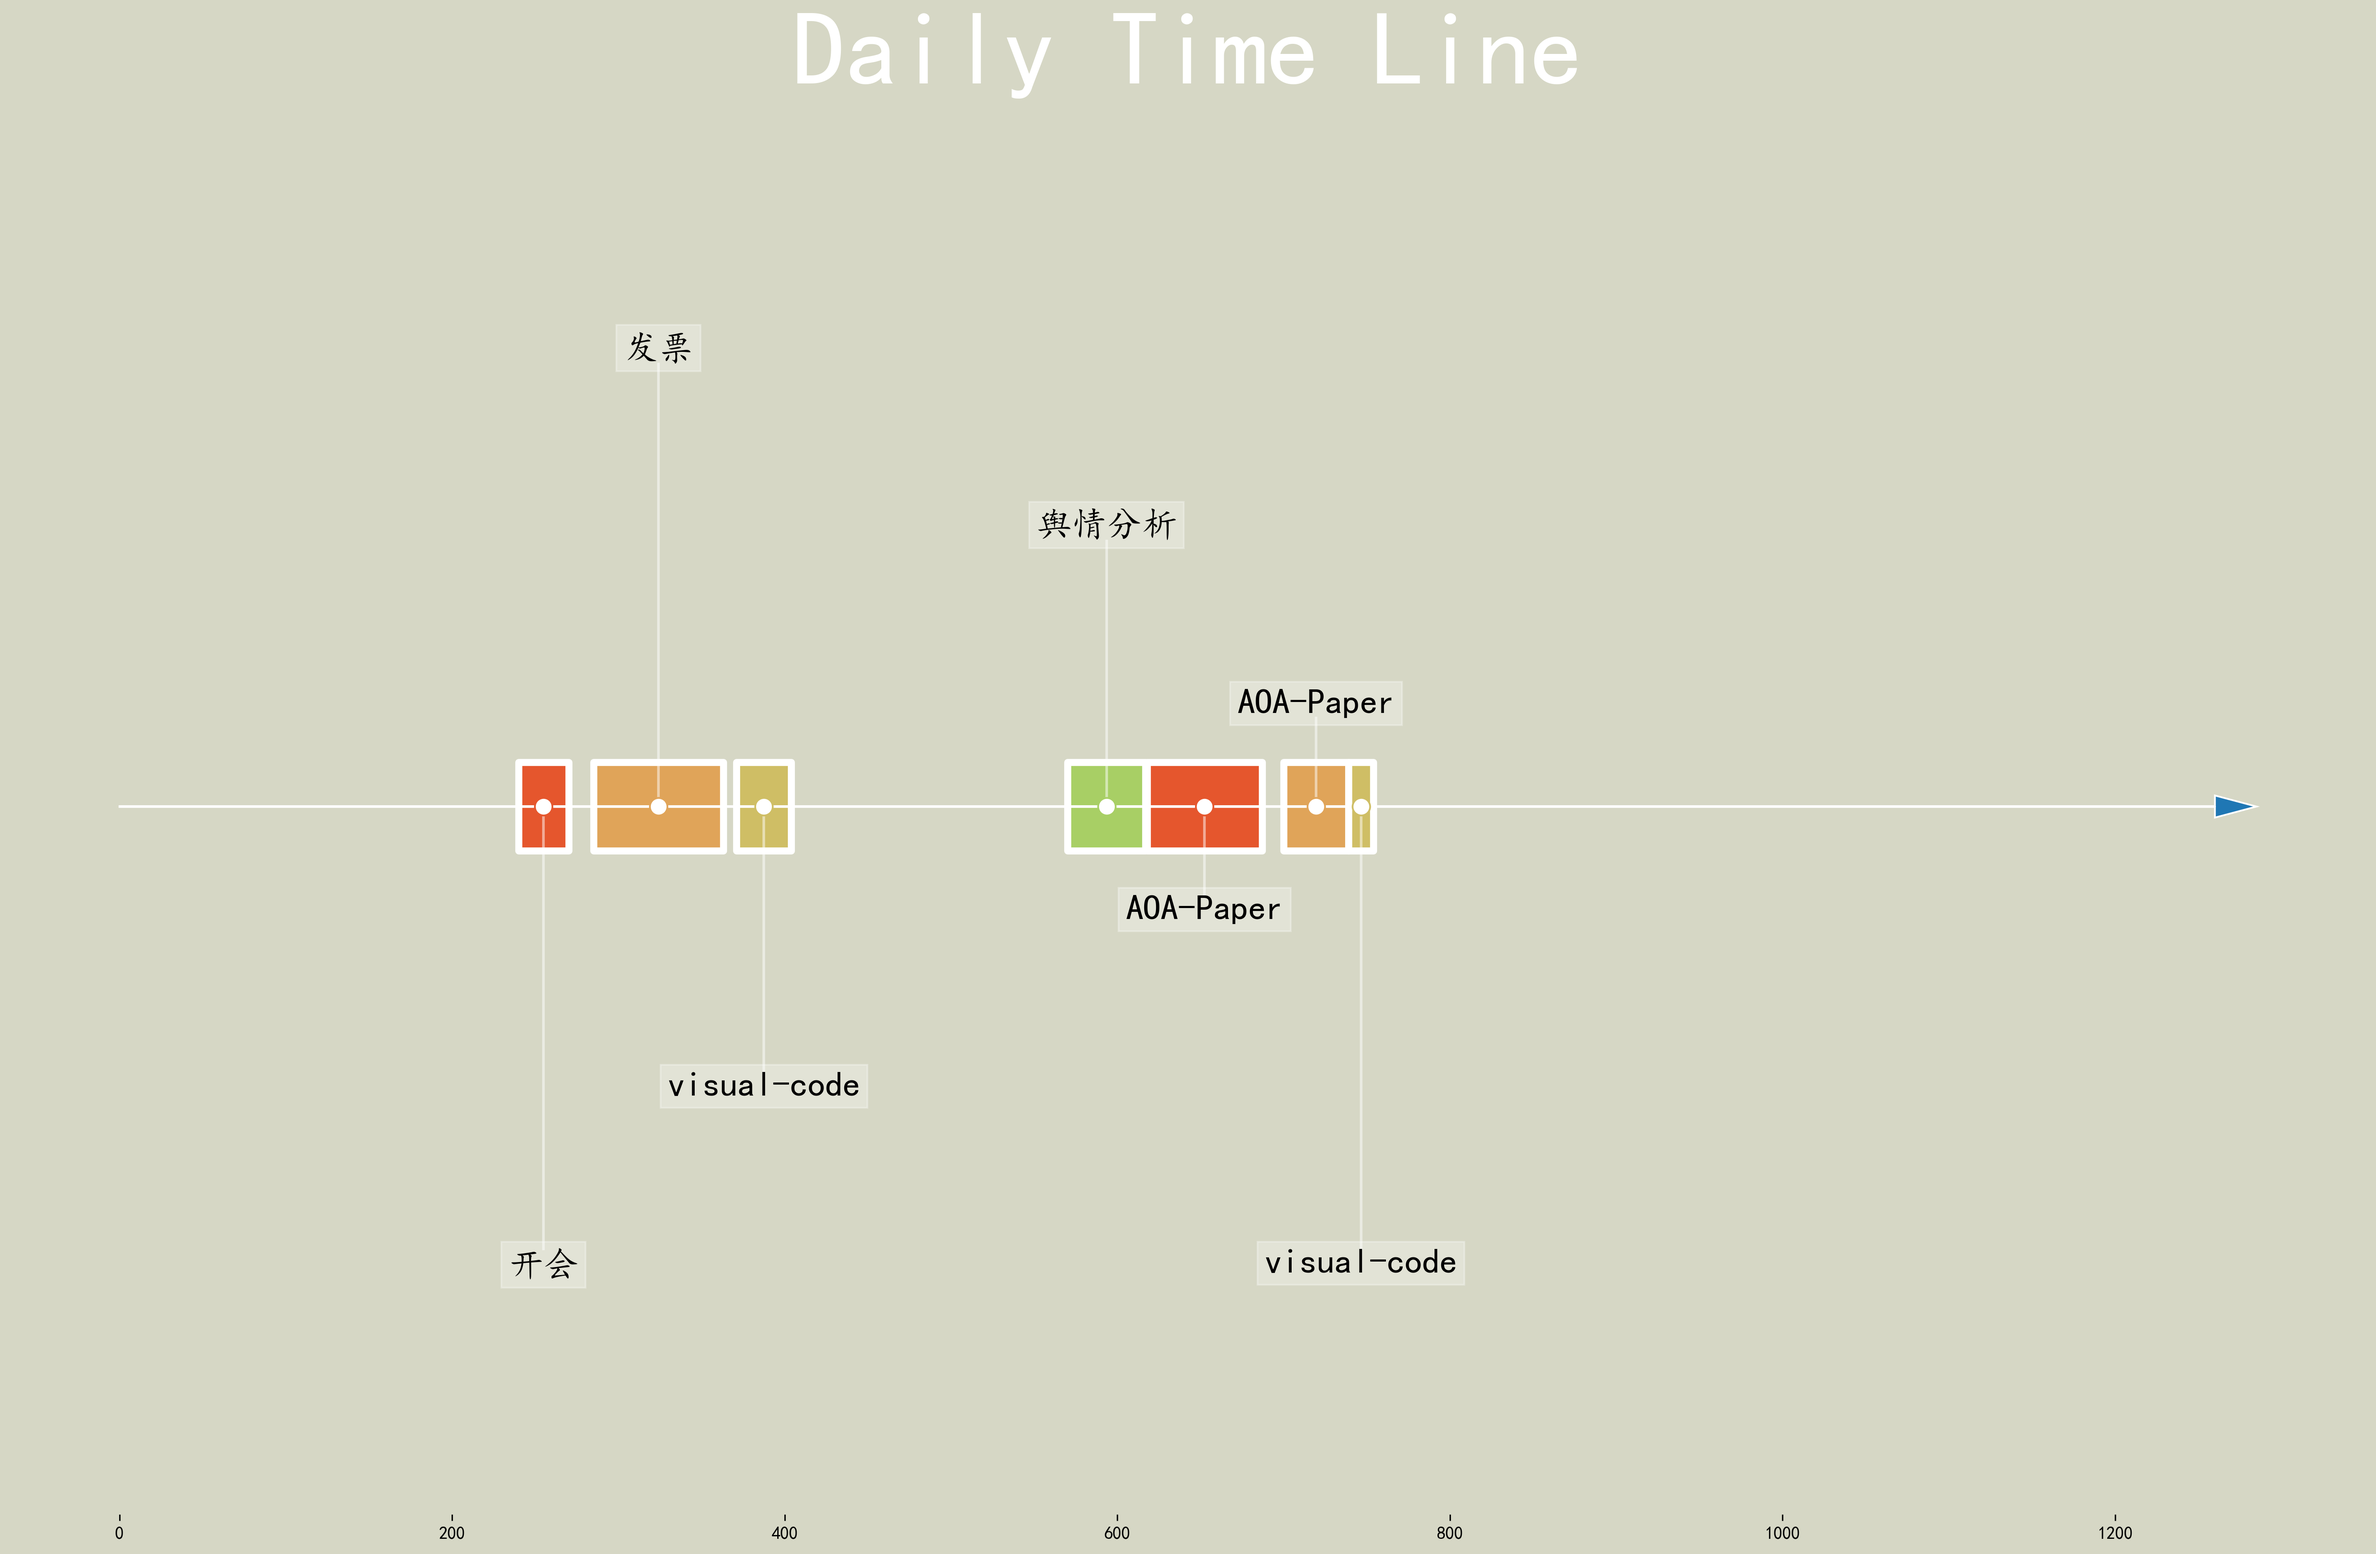
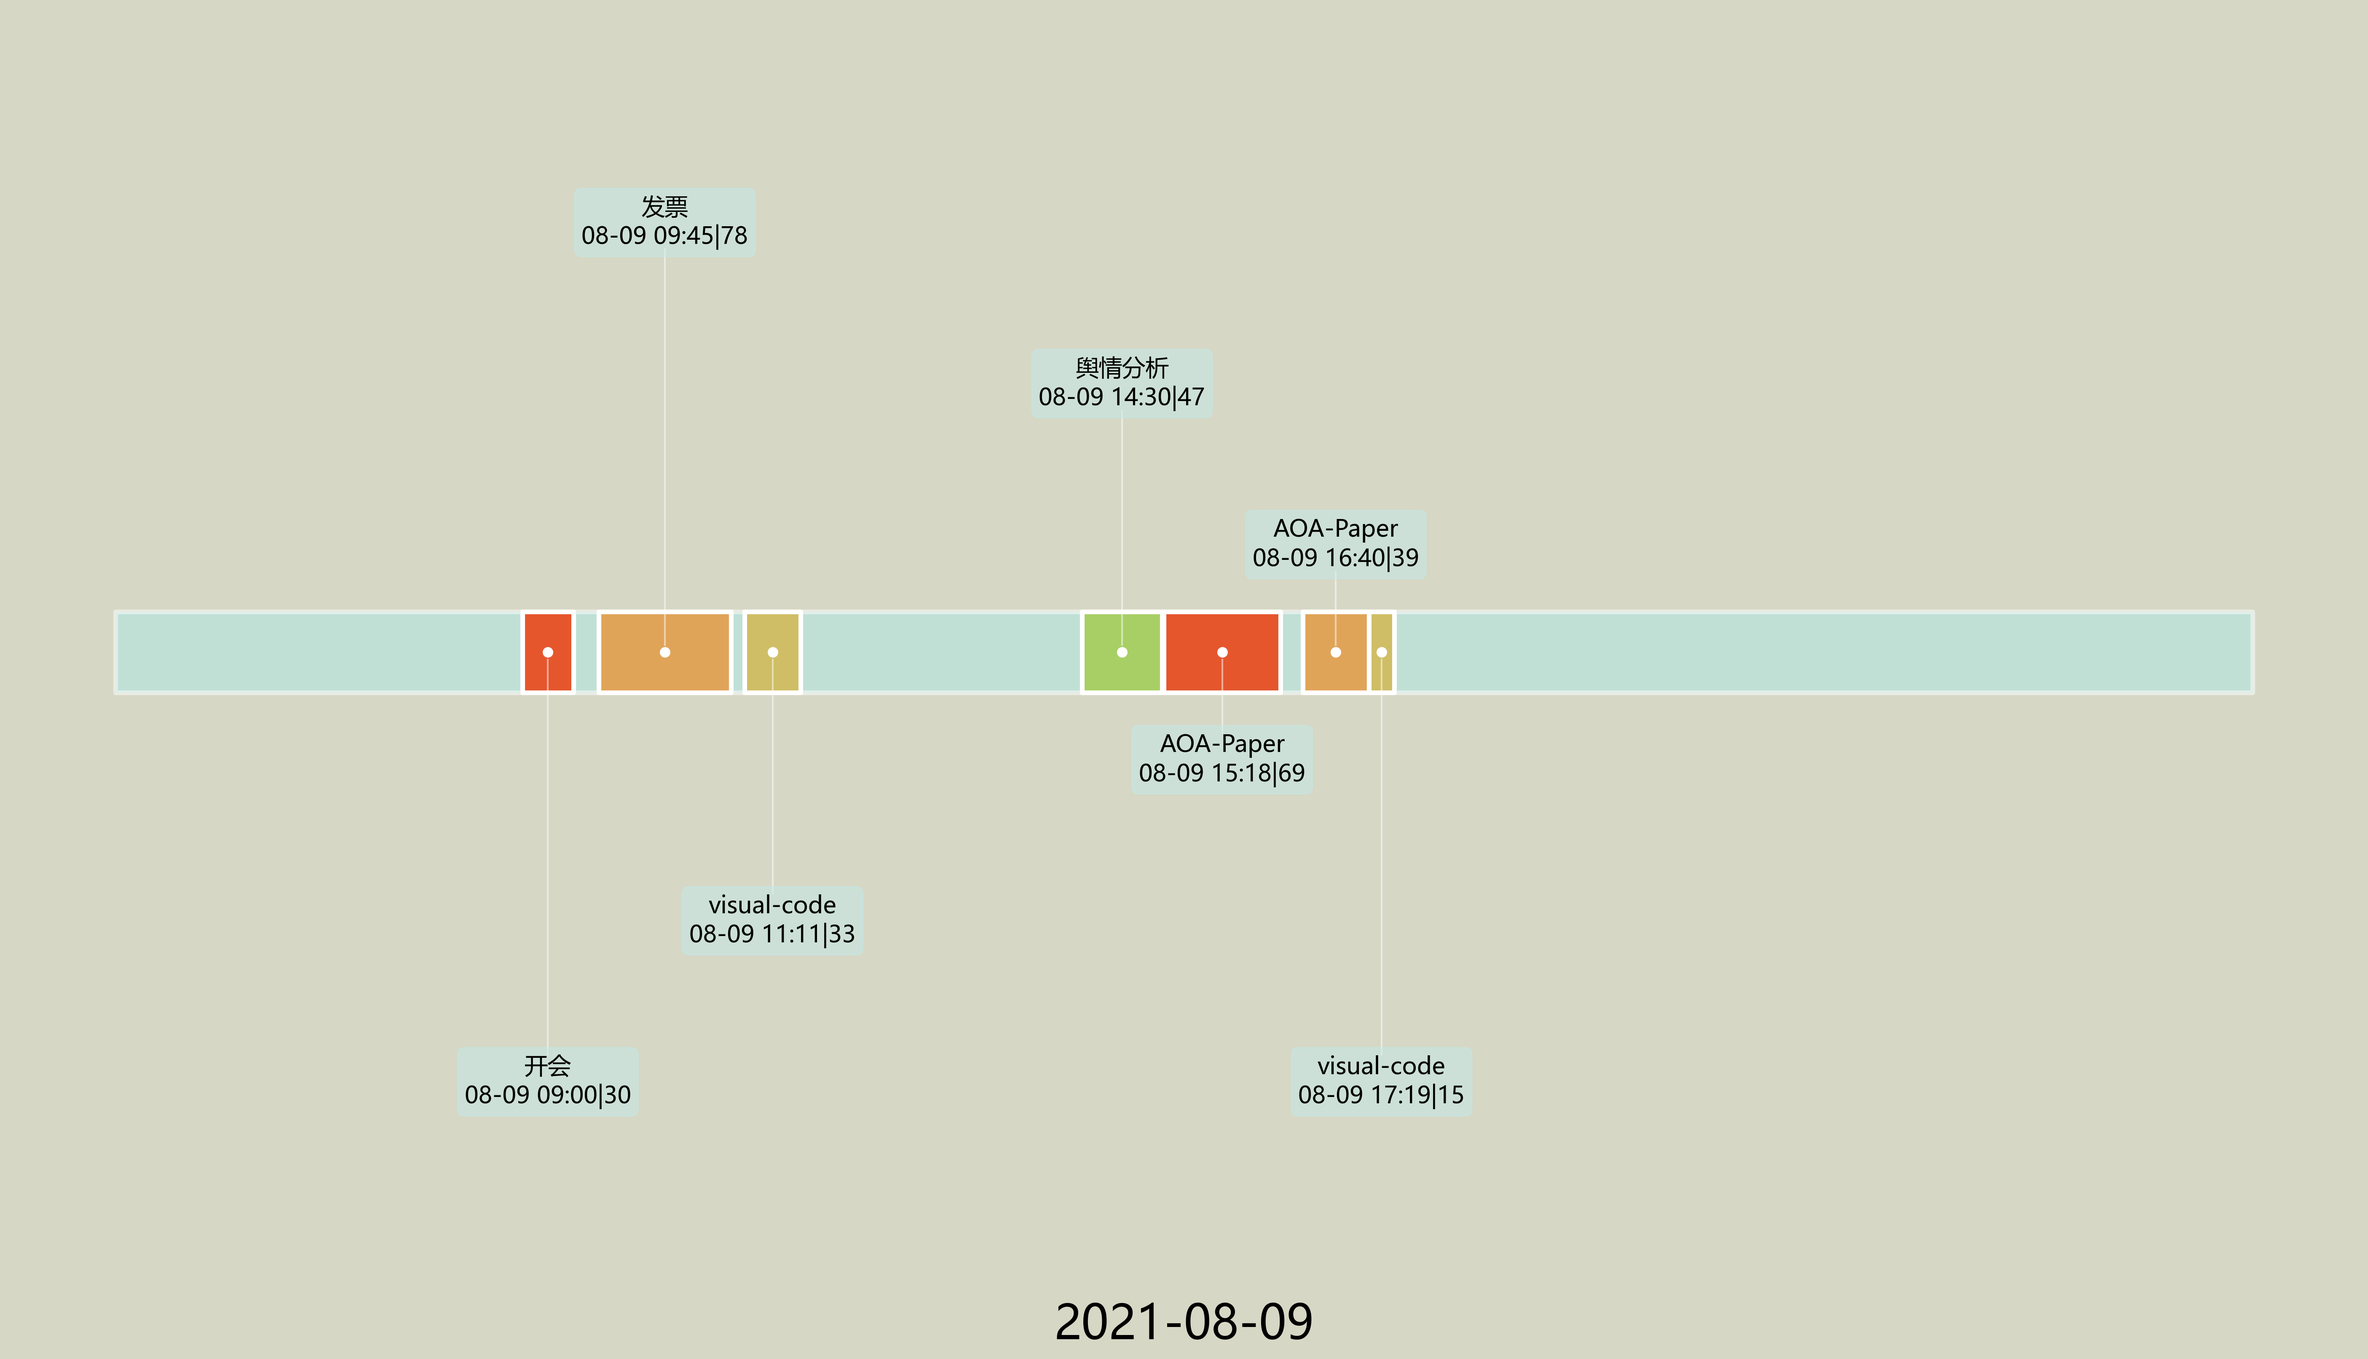
修改整体页面布局

diff --git a/html/mainpage.css b/html/mainpage.css
@@ -1,0 +1,108 @@
+.bg01 {
+  font-size: 50px;
+}
+
+.mui-content {
+  background: url(./pic/timeline.png) bottom center no-repeat #efeff4;
+  background-size: 100% 100%;
+  /* width: 100%;
+  height: 100%; */
+  background-repeat: no-repeat;
+  background-attachment: fixed;
+}
+
+.head01 {
+  background-color: #d6d7c5;
+  font-size: 50px;
+  text-align: center;
+  font-family: "Impact";
+  color: #58b4b9;
+}
+
+.frame {
+  width: 90%;
+  margin: 30px auto;
+  text-align: center;
+}
+/* 6 */
+.btn-6 {
+  background: rgb(247, 150, 192);
+  background: radial-gradient(
+    circle,
+    rgba(247, 150, 192, 1) 0%,
+    rgba(118, 174, 241, 1) 100%
+  );
+  line-height: 53px;
+  width: 53px;
+  height: 53px;
+  border-radius:50%;
+  padding: 0;
+  border: none;
+}
+.btn-6 span {
+  position: relative;
+  display: block;
+  width: 100%;
+  height: 100%;
+}
+.btn-6:before,
+.btn-6:after {
+  position: absolute;
+  content: "";
+  height: 0%;
+  width: 1px;
+  box-shadow: -1px -1px 20px 0px rgba(255, 255, 255, 1),
+    -4px -4px 5px 0px rgba(255, 255, 255, 1),
+    7px 7px 20px 0px rgba(0, 0, 0, 0.4), 4px 4px 5px 0px rgba(0, 0, 0, 0.3);
+}
+.btn-6:before {
+  right: 0;
+  top: 0;
+  transition: all 500ms ease;
+}
+.btn-6:after {
+  left: 0;
+  bottom: 0;
+  transition: all 500ms ease;
+}
+.btn-6:hover {
+  background: transparent;
+  color: #76aef1;
+  box-shadow: none;
+}
+.btn-6:hover:before {
+  transition: all 500ms ease;
+  height: 100%;
+}
+.btn-6:hover:after {
+  transition: all 500ms ease;
+  height: 100%;
+}
+.btn-6 span:before,
+.btn-6 span:after {
+  position: absolute;
+  content: "";
+  box-shadow: -1px -1px 20px 0px rgba(255, 255, 255, 1),
+    -4px -4px 5px 0px rgba(255, 255, 255, 1),
+    7px 7px 20px 0px rgba(0, 0, 0, 0.4), 4px 4px 5px 0px rgba(0, 0, 0, 0.3);
+}
+.btn-6 span:before {
+  left: 0;
+  top: 0;
+  width: 0%;
+  height: 0.5px;
+  transition: all 500ms ease;
+}
+.btn-6 span:after {
+  right: 0;
+  bottom: 0;
+  width: 0%;
+  height: 0.5px;
+  transition: all 500ms ease;
+}
+.btn-6 span:hover:before {
+  width: 100%;
+}
+.btn-6 span:hover:after {
+  width: 100%;
+}

diff --git a/html/mainpage-1.html b/html/mainpage-1.html
@@ -1,0 +1,27 @@
+<!DOCTYPE html>
+<html>
+
+<head>
+    <meta charset="utf-8" />
+    <title>😁 Daily life 😁</title>
+    <link rel="stylesheet" type="text/css" href="mainpage.css">
+</head>
+
+<body class="mui-content">
+    <header class="head01">
+        2021-08-30
+    </header>
+    <hr />
+    <div class="bg01">
+        <p>background</p>
+    </div>
+    <div id="dg" style="z-index: 9999; position: fixed ! important; right: 0px; top: 0px;">
+        <table width="" 100% style="position: absolute; width:260px; right: 0px; top: 0px;">
+            <button class="custom-btn btn-6"><span>DailyPie</span></button>
+        </table>
+    </div>
+    <script>
+    </script>
+</body>
+
+</html>

diff --git a/python/DrawImage.py b/python/DrawImage.py
@@ -10,7 +10,6 @@ from pyecharts.options import ComponentTitleOpts
 from os import path
 import matplotlib.pyplot as plt
 import numpy as np
-import matplotlib.dates as mdates
 from datetime import datetime, timedelta
 
 plt.rcParams['font.sans-serif'] = ['KaiTi']
@@ -41,79 +40,82 @@ def UpdateTimeLineImage(startTick_x=['2021-08-09 09:00:00', '2021-08-09 09:45:00
                                      '2021-08-09 15:18:00',
                                      '2021-08-09 16:40:00', '2021-08-09 17:19:00'],
                         eventName_x=['开会', '发票', 'visual-code', '舆情分析',
-                                     'AOA-Paper', 'AOA-Paper', 'visual-code']):
+                                     'AOA-Paper', 'AOA-Paper', 'visual-code'],
+                        eventLast_x=[30, 78, 33, 47, 69, 39, 15]):
     colors = ['#E5562D', '#E0A459', '#CFBE65', '#A8CF65', '#6FD67D', '#68D5AE'
               '#6FD0DB', '#5294D0', '#595CD0', '#9E59D0', '#D05994']
     # data preprocession
     # datetime-str→datetime→baseline→gap
 
-    startTick = [datetime.strptime(x, "%Y-%m-%d %H:%M:%S")
-                 for x in startTick_x]
-    zeroTick = datetime.strptime(datetime.strftime(
-        startTick[1], "%Y-%m-%d")+" 07:00:00")
-    stopTick = zeroTick+timedelta(hours=19)
+    startTick_t = [datetime.strptime(x, "%Y-%m-%d %H:%M:%S")
+                   for x in startTick_x]
+    zeroTick_t = datetime.strptime(datetime.strftime(
+        startTick_t[1], "%Y-%m-%d")+" 07:00:00", "%Y-%m-%d %H:%M:%S")
+    endTick_t = zeroTick_t+timedelta(hours=19)
     eventName = eventName_x
-    eventLast_x = [30, 78, 33, 47, 69, 39, 15]
+
     eventLast = eventLast_x
     # startTick_t = [datetime.strptime(ii, "%Y-%m-%d %H:%M:%S")
-    #                for ii in startTick]
+    #                for ii in startTick_t]
     levels = np.array([-5, 5, -3, 3, -1, 1])
-    fig, ax = plt.subplots(figsize=(24, 24*0.618),
-                           facecolor='#D6D7C5', dpi=300)
+    fig, ax = plt.subplots(figsize=(36, 36*0.5625),
+                           facecolor='#D6D7C5', dpi=200)
 
     # Create the base bar from 5am to 1am
     start = datetime.strptime('2021-08-09 05:00:00', '%Y-%m-%d %H:%M:%S')
     stop = datetime.strptime('2021-08-10 02:00:00', '%Y-%m-%d %H:%M:%S')
     baseGapMin = (stop-start).total_seconds()/60
     ax.set(facecolor="#D6D7C5")
-    if False:
-        ax.broken_barh([(0, baseGapMin)],
-                       (-1/2, 1), alpha=.5, facecolors='#ace9e8', edgecolors='white')
+    if True:
+        ax.broken_barh(
+            [(0, baseGapMin)], (-1/2, 1), alpha=.5,
+            facecolors='#ace9e8', edgecolors='white', lw=4, capstyle='round')
     else:
-        ax.arrow(0, 0, baseGapMin, 0, width=0.01, length_includes_head=False, head_width=0.25,
-                 head_length=25, ec='white')
+        ax.arrow(
+            0, 0, baseGapMin, 0, width=0.01, length_includes_head=False,
+            head_width=0.25, head_length=25, ec='white')
 
     ax.set_ylim(-8, 8)
-    ax.set_title('Daily Time Line', fontsize=60, color='white')
-    for ii, (iname, itick, ieventLast) in enumerate(zip(eventName, startTick, eventLast)):
+    # set as page background image no need title
+    # ax.set_title('Daily Time Line', fontsize=60, color='white')
+    for ii, (iname, itick, ieventLast) in enumerate(zip(eventName, startTick_t, eventLast)):
         barhColor = colors[ii % 4]
         level = levels[ii % 6]
         vert = 'top' if level < 0 else 'bottom'
-        tickTemp = datetime.strptime(itick, "%Y-%m-%d %H:%M:%S")
-        curPointX = (tickTemp-start).total_seconds()/60
+        # tickTemp = datetime.strptime(itick, "%Y-%m-%d %H:%M:%S")
+        curPointX = (itick-start).total_seconds()/60
         curPointX_M = curPointX + ieventLast/2
         ax.scatter(curPointX_M, 0, s=100, facecolor='w',
                    edgecolor=barhColor, zorder=9999)
         # a line up to the text
         ax.plot((curPointX_M, curPointX_M), (0, level), c='white', alpha=.5)
         # text
-        itext = iname+"\n"+itick+"|"+str(ieventLast)
-        ax.text(curPointX_M, level, itext,
-                horizontalalignment='center', verticalalignment=vert, fontsize=20,
-                backgroundcolor='#C3EAE9')
+        itickStr = datetime.strftime(itick, "%m-%d %H:%M")
+        itext = iname+"\n"+itickStr+"|"+str(ieventLast)
+        textInstance = ax.text(
+            curPointX_M, level, itext,
+            horizontalalignment='center', verticalalignment=vert, fontsize=20,
+            fontfamily='Microsoft YaHei')
+        textInstance.set_bbox(
+            dict(boxstyle="round", alpha=0.5, color='#C3EAE9'))
         # broken_bar
         ax.broken_barh([(curPointX, ieventLast)], (-1/2, 1),
                        facecolors=barhColor, edgecolors='white', lw=4)
-    if False:
-        # todo:xlabel setting
-        ax.get_xaxis().set_major_locator(
-            mdates.MinuteLocator(byminute=range(60), interval=10))
-        ax.get_xaxis().set_major_formatter(mdates.DateFormatter("%H %M"))
-        fig.autofmt_xdate()
 
     # Remove components for a cleaner look
     plt.setp((ax.get_yticklabels() + ax.get_yticklines() +
               list(ax.spines.values())), visible=False)
     plt.setp((ax.get_xticklabels() + ax.get_xticklines() +
               list(ax.spines.values())), visible=False)
-    if False:
-        imageFile = '../html/pic/timeline.png'
+    plt.xlabel(startTick_t[int(len(startTick_t)/2)].strftime("%Y-%m-%d"),
+               fontsize=40, fontfamily='Microsoft YaHei')
+    if True:
+        imageFile = r'../html/pic/timeline.png'
         plt.savefig(imageFile, bbox_inches='tight')
         print('image generated', imageFile)
         return imageFile
     else:
         plt.show()
-    print("从眼里留下谢谢两个字 尽管叫我疯子 不准叫我傻子")
 
 
 if __name__ == "__main__":

diff --git a/python/learnNote.py b/python/learnNote.py
@@ -238,3 +238,23 @@ fig, ax = plt.subplots(figsize=(24, 24*0.618),
 ax.broken_barh([(start, (stop-start))],
                (-1/2, 1), alpha=.5, facecolors='#ace9e8', edgecolors='white')
 plt.show()
+#%% demo()
+"""Demonstrate how each CapStyle looks for a thick line segment."""
+import matplotlib.pyplot as plt
+
+fig = plt.figure(figsize=(4, 1.2))
+ax = fig.add_axes([0, 0, 1, 0.8])
+ax.set_title('Cap style')
+
+for x, style in enumerate(['butt', 'round', 'projecting']):
+    ax.text(x+0.25, 0.85, style, ha='center')
+    xx = [x, x+0.5]
+    yy = [0, 0]
+    ax.plot(xx, yy, lw=12, color='tab:blue', solid_capstyle=style)
+    ax.plot(xx, yy, lw=1, color='black')
+    ax.plot(xx, yy, 'o', color='tab:red', markersize=3)
+ax.text(2.25, 0.55, '(default)', ha='center')
+
+ax.set_ylim(-.5, 1.5)
+ax.set_axis_off()
+fig.show()

diff --git a/README.md b/README.md
@@ -38,12 +38,15 @@ The project  based on `python`  `pyehcarts` `matplotlib` ...
 
 ....
 
-## 3.Todo:
+## 3.Todo
 
-- ...
-- ...
-- ...
-- 
+- [x] Layout of page Ver1.0
+- [ ] Daily time review.
+- [ ] Weekly  time review.
+- [ ] Mothly time review.
+- [ ] ......
+
+
 
 ## Links
 
